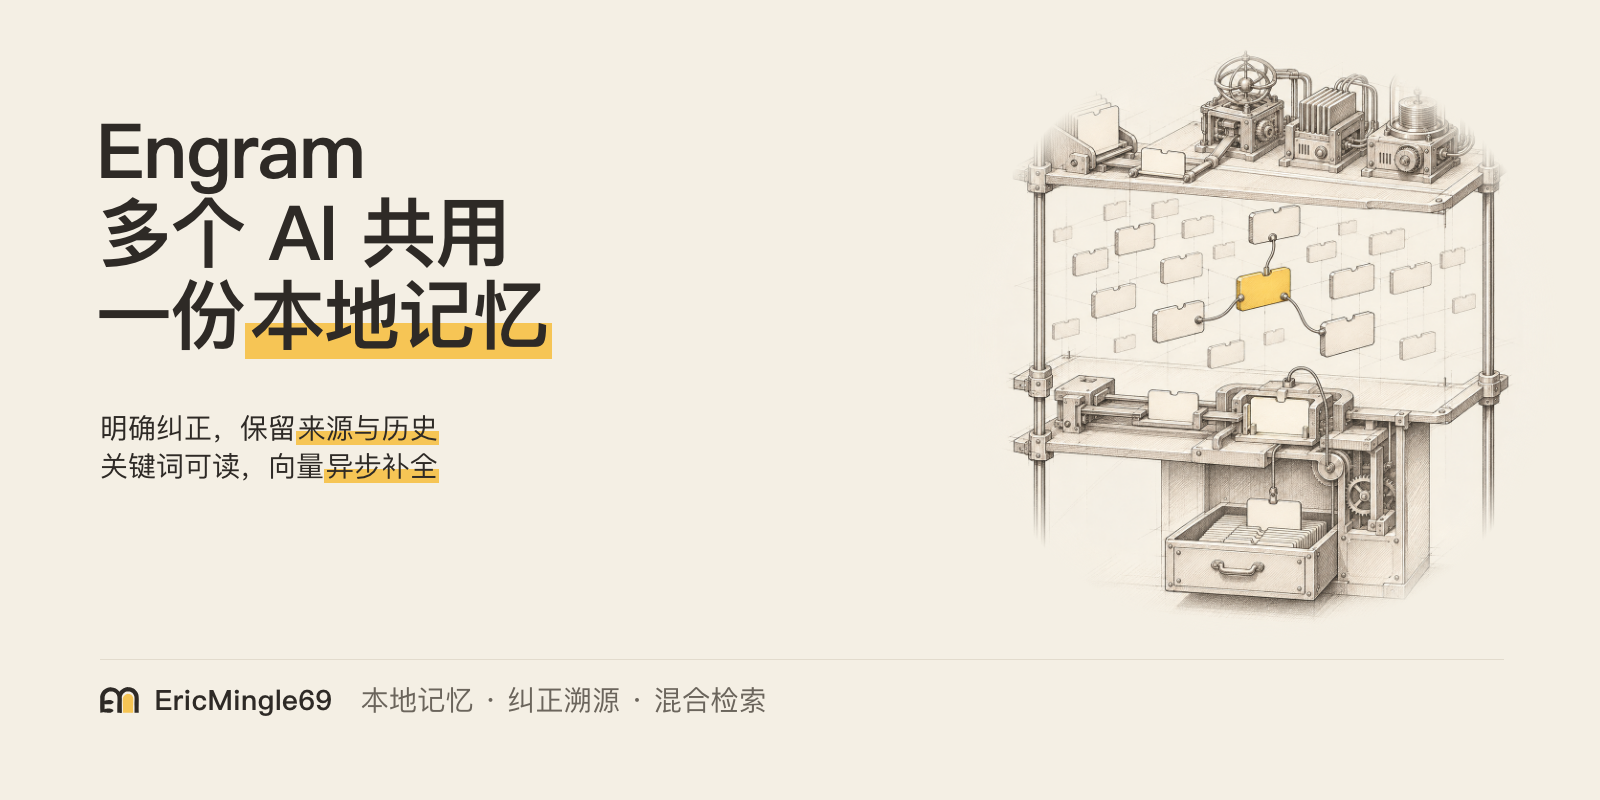
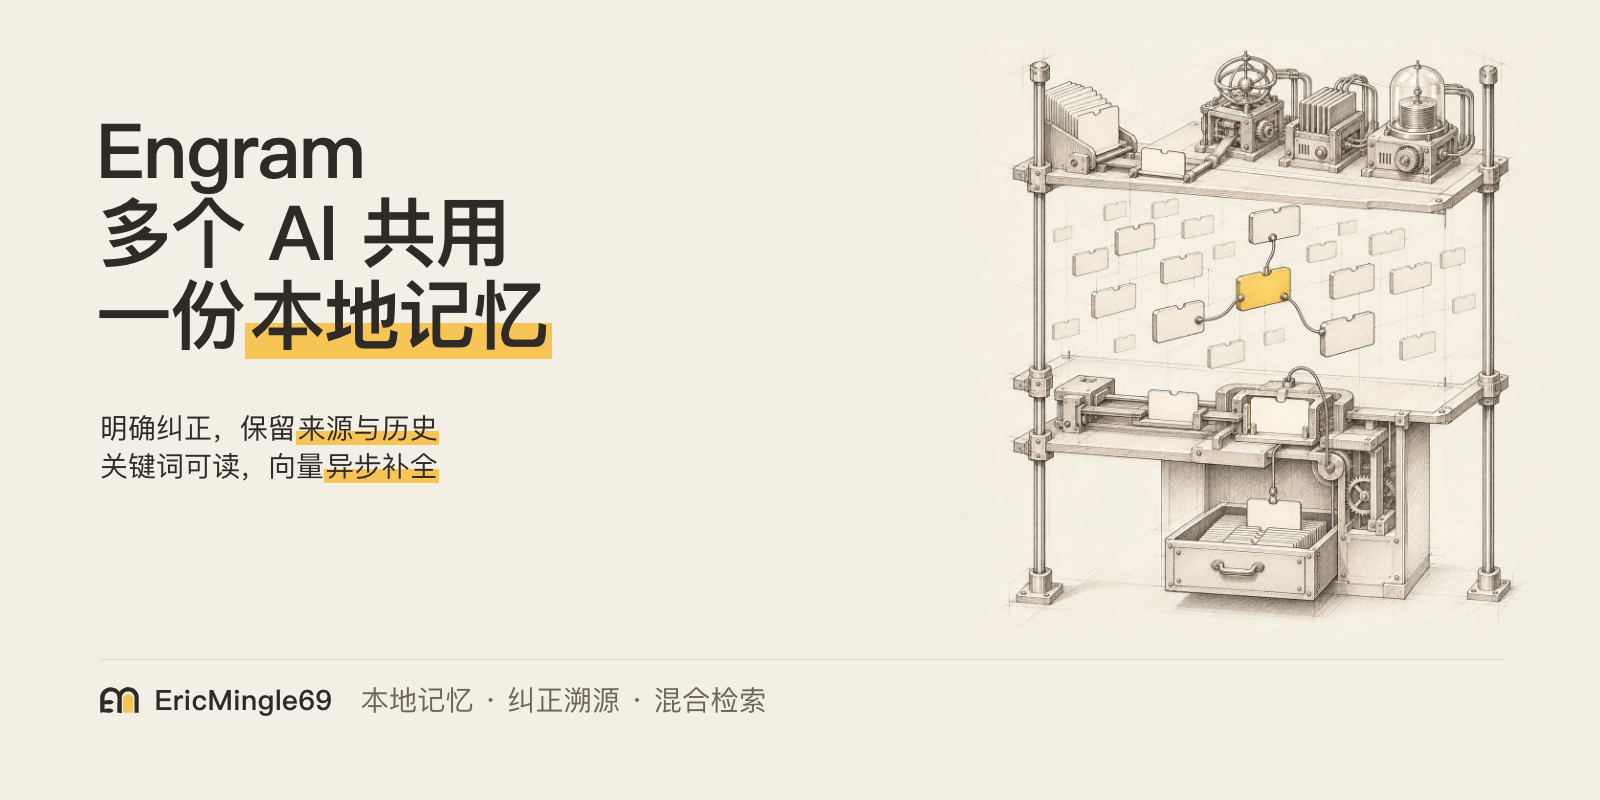
Docs: show cover illustration in full

diff --git a/scripts/publication_check.py b/scripts/publication_check.py
@@ -41,7 +41,7 @@ TEXT_SUFFIXES = frozenset({
     ".js", ".mjs", ".cjs", ".ts", ".tsx", ".jsx", ".svg", ".sql",
 })
 # Reviewed generated covers only; any changed image requires visual review.
[2 lines of base64/hex data omitted]
 
 TEXT_NAMES = frozenset({"LICENSE", "NOTICE", "COPYING", "Makefile", ".gitignore", ".gitattributes", ".editorconfig", ".python-version"})
 UUID = re.compile(r"\b[0-9a-f]{8}-[0-9a-f]{4}-[0-9a-f]{4}-[0-9a-f]{4}-[0-9a-f]{12}\b", re.IGNORECASE)

diff --git a/tests/test_mcp_profiles.py b/tests/test_mcp_profiles.py
@@ -171,7 +171,7 @@ def test_official_sdk_stdio_profile(tmp_path):
                     result = await session.initialize()
                     assert result.serverInfo.name == "engram-claude"
                     assert result.serverInfo.title == "Engram Claude"
-                    assert result.serverInfo.version == "0.4.2"
+                    assert result.serverInfo.version == "0.4.3"
                     listed = await session.list_tools()
                     assert {item.name for item in listed.tools} == {
                         item["name"] for item in tool_descriptors()

diff --git a/tests/test_mcp_claude_remote.py b/tests/test_mcp_claude_remote.py
@@ -58,7 +58,7 @@ def test_http_profile_identity_and_shared_data(tmp_path):
             )
             expected_name = "engram-claude" if profile == "claude" else "engram"
             assert initialized["serverInfo"]["name"] == expected_name
-            assert initialized["serverInfo"]["version"] == "0.4.2"
+            assert initialized["serverInfo"]["version"] == "0.4.3"
             if profile == "claude":
                 assert initialized["instructions"] == CLAUDE_PROFILE.instructions
                 saved = call(client, "remember", {"body": "isolated shared profile"})

diff --git a/src/engram/mcp/server.py b/src/engram/mcp/server.py
@@ -22,7 +22,7 @@ from engram.mcp.tools import ToolContext, call_tool, tool_descriptors
 
 PROTOCOL_VERSION = "2025-06-18"
 SERVER_NAME = "engram"
-SERVER_VERSION = "0.4.2"
+SERVER_VERSION = "0.4.3"
 INSTRUCTIONS = DEFAULT_PROFILE.instructions
 
 PARSE_ERROR = -32700

diff --git a/README.en.md b/README.en.md
@@ -6,7 +6,7 @@
 <p align="center"><a href="docs/architecture.md">Architecture</a> · <a href="docs/research-directions.md">Research</a> · <a href="CHANGELOG.md">Changelog</a> · <a href="CONTRIBUTING.md">Contributing</a></p>
 <p align="center">
 <img alt="MIT" src="https://img.shields.io/badge/license-MIT-F6C555?style=flat-square&amp;labelColor=2E2A26">
-<img alt="Version" src="https://img.shields.io/badge/version-0.4.2-6B655C?style=flat-square&amp;labelColor=2E2A26">
+<img alt="Version" src="https://img.shields.io/badge/version-0.4.3-6B655C?style=flat-square&amp;labelColor=2E2A26">
 <img alt="Python" src="https://img.shields.io/badge/Python-3.13%2B-6B655C?style=flat-square&amp;labelColor=2E2A26">
 <img alt="SQLite" src="https://img.shields.io/badge/storage-SQLite-A8A196?style=flat-square&amp;labelColor=2E2A26">
 </p>
@@ -14,7 +14,7 @@
 
 # Engram · Shared local knowledge for agents
 
-Engram 0.4.2 keeps long-term knowledge in a local SQLite database shared by different agents. Writers provide content; classification and vectors are completed later. Explicit corrections preserve provenance while reads distinguish currently applicable information from original history.
+Engram 0.4.3 keeps long-term knowledge in a local SQLite database shared by different agents. Writers provide content; classification and vectors are completed later. Explicit corrections preserve provenance while reads distinguish currently applicable information from original history.
 
 Earlier public code declared 0.1.0 and had no formal release tags. Version 0.4.0 first packaged the current core as public source; 0.4.1 updated CI, documentation, and its publication checks, and 0.4.2 updates the signature and covers. Intermediate development is described as milestones, without inventing 0.2/0.3 releases. See the [changelog](CHANGELOG.md), [architecture](docs/architecture.md), [evolution](docs/evolution.md), and [research directions](docs/research-directions.md).
 

diff --git a/README.md b/README.md
@@ -6,7 +6,7 @@
 <p align="center"><a href="docs/architecture.md">架构</a> · <a href="docs/research-directions.md">研究方向</a> · <a href="CHANGELOG.md">版本记录</a> · <a href="CONTRIBUTING.md">贡献</a></p>
 <p align="center">
 <img alt="MIT" src="https://img.shields.io/badge/license-MIT-F6C555?style=flat-square&amp;labelColor=2E2A26">
-<img alt="Version" src="https://img.shields.io/badge/version-0.4.2-6B655C?style=flat-square&amp;labelColor=2E2A26">
+<img alt="Version" src="https://img.shields.io/badge/version-0.4.3-6B655C?style=flat-square&amp;labelColor=2E2A26">
 <img alt="Python" src="https://img.shields.io/badge/Python-3.13%2B-6B655C?style=flat-square&amp;labelColor=2E2A26">
 <img alt="SQLite" src="https://img.shields.io/badge/storage-SQLite-A8A196?style=flat-square&amp;labelColor=2E2A26">
 </p>
@@ -14,7 +14,7 @@
 
 # Engram · Agent 共用本地知识库
 
-Engram 0.4.2 把长期知识保存在本机 SQLite 中，供不同 Agent 使用同一份事实源。写入方提供内容，分类与向量在后续补全；明确纠正形成可追溯关系，读取时区分当前适用内容与历史原文。
+Engram 0.4.3 把长期知识保存在本机 SQLite 中，供不同 Agent 使用同一份事实源。写入方提供内容，分类与向量在后续补全；明确纠正形成可追溯关系，读取时区分当前适用内容与历史原文。
 
 此前公开代码标为 0.1.0，没有正式版本标签。0.4.0 将当前核心整理为公开源码，0.4.1 更新 CI、文档及其发布检查，0.4.2 更新署名与封面；历史阶段按里程碑描述，不补造 0.2/0.3 发布。见 [版本变化](CHANGELOG.md)、[架构](docs/architecture.md)、[演化历史](docs/evolution.md) 和 [研究方向](docs/research-directions.md)。
 

diff --git a/docs/evolution/0.4.3.md b/docs/evolution/0.4.3.md
@@ -1,0 +1,19 @@
+# Engram 0.4.3 · Full cover illustrations
+
+## Problem
+The circular mask clipped the cover illustration.
+
+## Architecture and interface
+Replace the four covers byte-for-byte with the approved full-illustration exports. Package and service metadata advance together; runtime interfaces are unchanged.
+
+## Decisions and alternatives
+Use the supplied exports without additional processing. Preserve exact-path SHA-256 publication exceptions.
+
+## Research hypotheses
+Showing the full illustration may improve visibility of its mechanisms; no measured user benefit is claimed.
+
+## Validation and limits
+Verify byte equality against all four supplied exports, run the complete offline synthetic suite, lint, and publication/version checks. Image identity does not establish semantic correctness; the supplied design is approved by the maintainer.
+
+## Next
+Review the cover-only presentation update before merge. No automatic merge is requested.

diff --git a/docs/evolution.md b/docs/evolution.md
@@ -21,3 +21,7 @@ Bilingual presentation and theme-aware covers; runtime behavior unchanged. See [
 ## 0.4.2 · EM signature
 
 Updated covers and theme-aware inline logo. See [release notes](evolution/0.4.2.md).
+
+## 0.4.3 · Full cover illustrations
+
+Remove the circular cover mask using approved exports. See [release notes](evolution/0.4.3.md).

diff --git a/CHANGELOG.md b/CHANGELOG.md
@@ -1,5 +1,10 @@
 # Changelog
 
+## [0.4.3] - 2026-11-17
+
+- Replace all four covers with approved full-illustration exports without the circular mask.
+- Refresh exact cover hashes and release metadata; runtime behavior is unchanged.
+
 ## [0.4.2] - 2026-11-17
 
 - Replace the documentation signature with theme-aware EM logos and updated covers.
